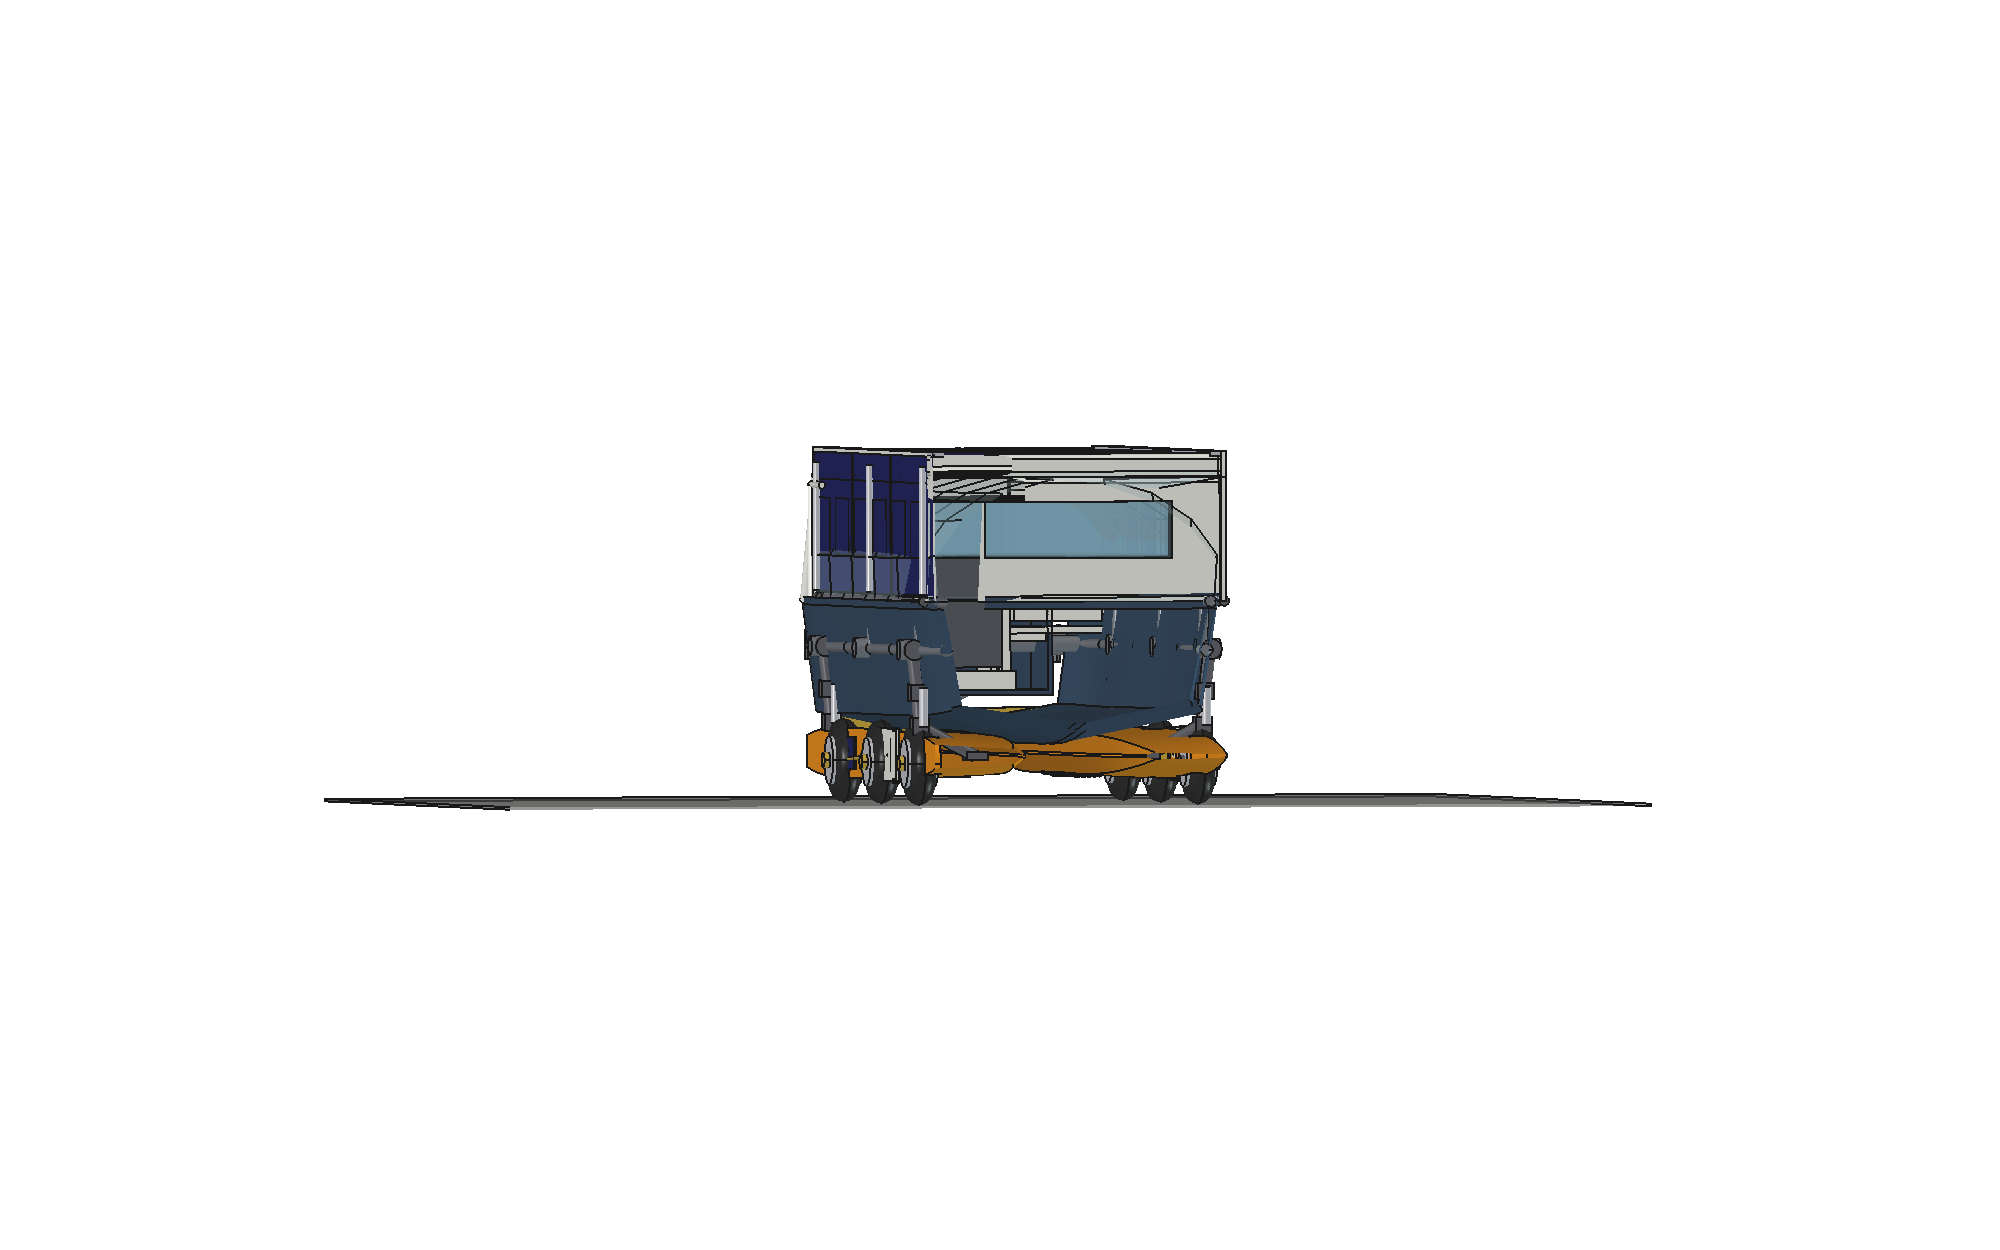
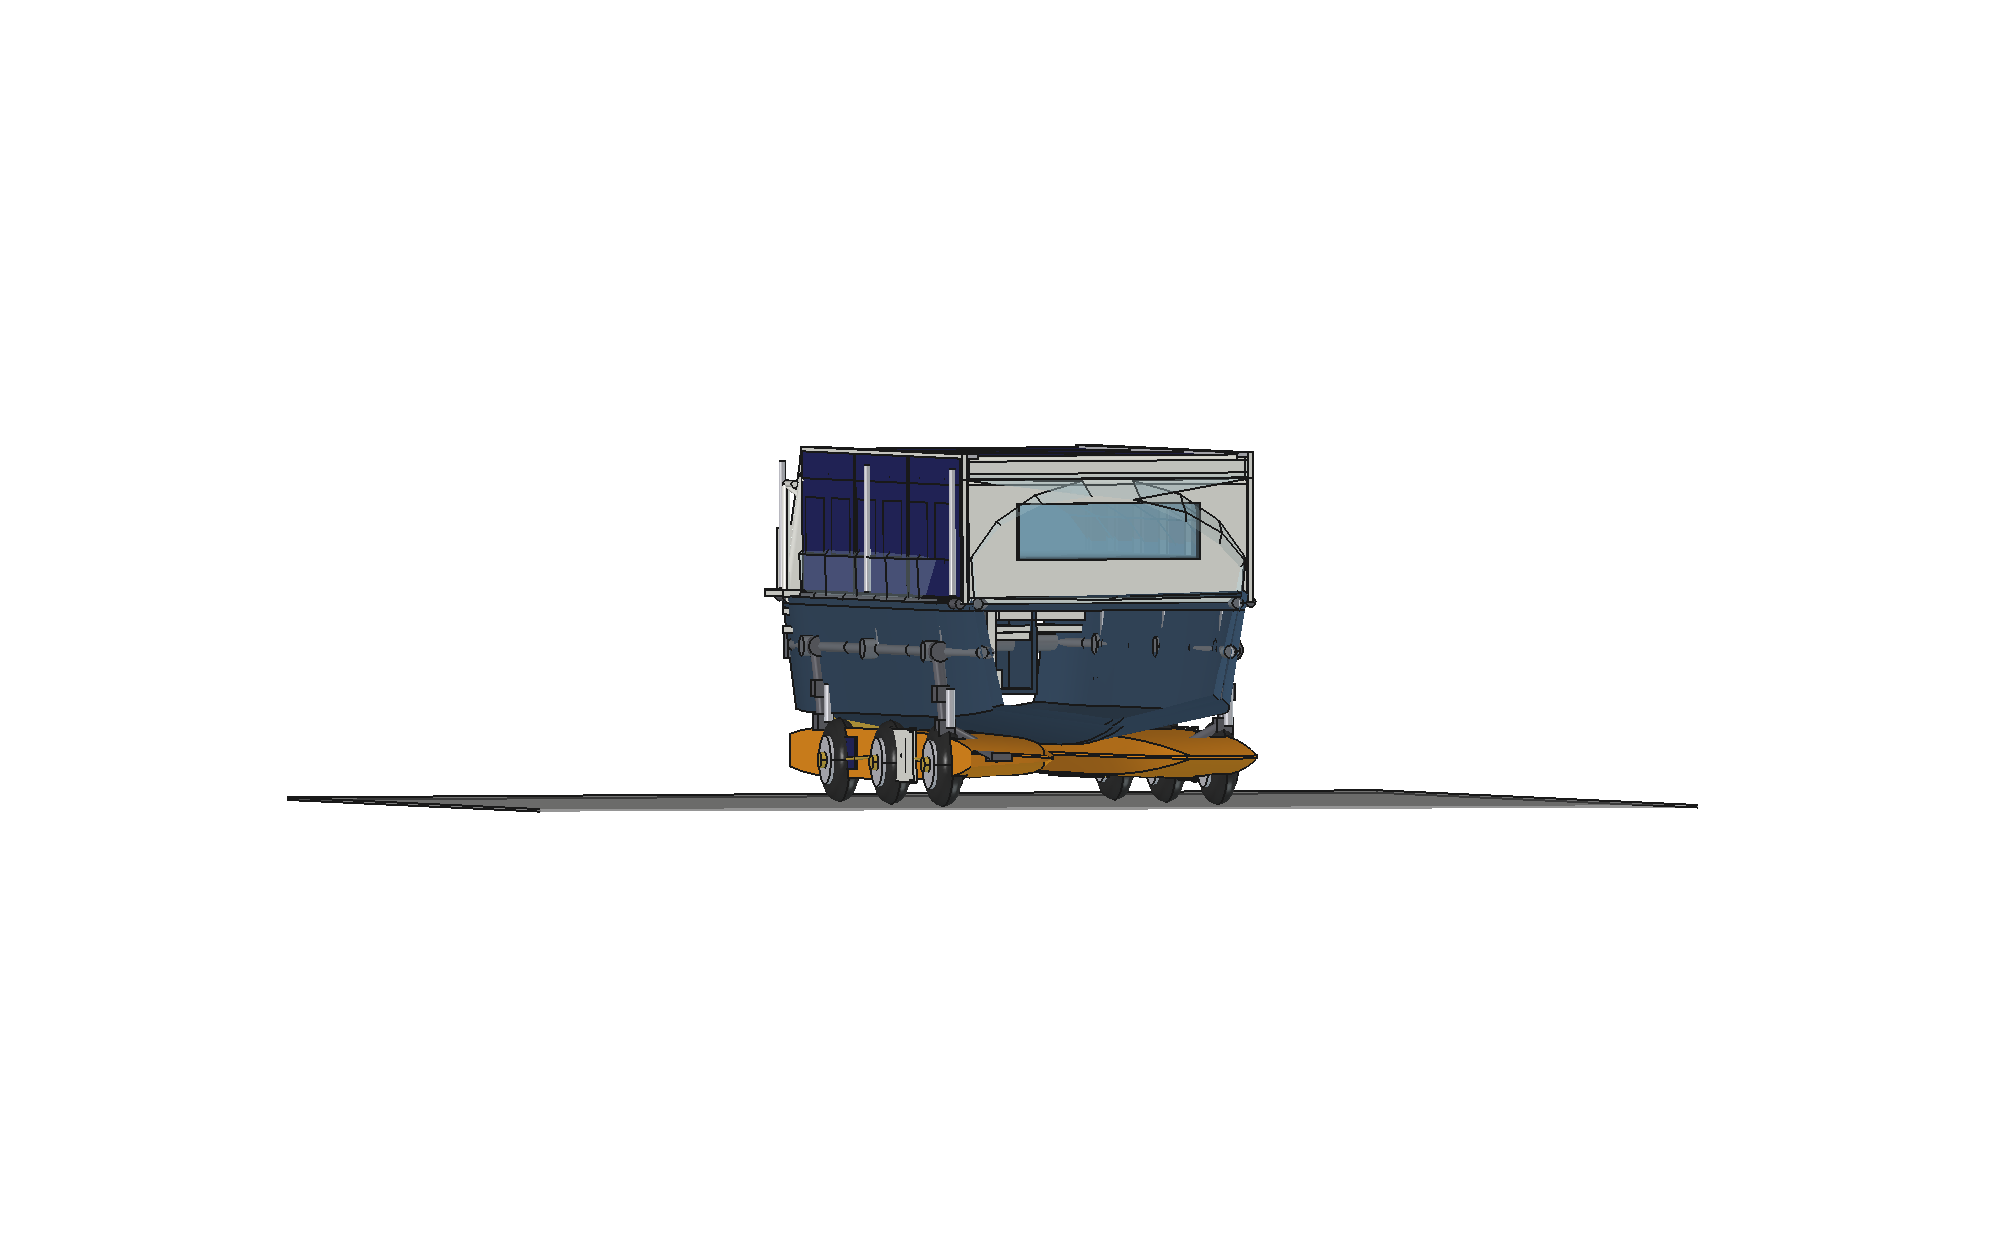
Balcony runs aft to the transom as a narrow passage
There was no physical connection between the aft door and the side
decks: the balconies started at the cabin wall, so the cockpit opened
onto nothing.

The balcony panel now extends aft to the transom, but the aft section
is a 540 mm PASSAGE that flares to the full 1200 mm deck at the cabin
wall — a walkway, not more floor, since extra width there would only
add weight, windage and folded height. The boarding gate moved aft to
x 200-800, beside the cockpit, so you step out of the door, up the
landing and half step, and straight onto the passage. Winch relocated
hard aft to keep the gate clear; solar panels and the edge rail follow
the wide section only.

Changed region(s): [[0.155, 0.3432, 0.837, 0.6552]]

diff --git a/freecad/build_boat.py b/freecad/build_boat.py
@@ -395,19 +395,31 @@ def build_balcony(fold_deg):
         s.Placement = place.multiply(s.Placement)
         return s
 
-    plate = posed(box(L, P.BALC_SPAN, P.BALC_T, (P.BALC_X0, 0, 0)))
-    # 3 BIFACIAL modules: active laminate on both faces of the plate
+    # plate outline: a narrow passage aft, flaring to the full deck at
+    # the cabin wall. Only a walkway is needed back there — widening it
+    # would just add weight and windage.
+    out = wire([(P.BALC_X0, 0, 0), (P.BALC_X0, P.PASSAGE_W, 0),
+                (P.PASSAGE_X - 340, P.PASSAGE_W + 40, 0),
+                (P.PASSAGE_X - 40, P.BALC_SPAN - 120, 0),
+                (P.PASSAGE_X, P.BALC_SPAN, 0),
+                (P.BALC_X1, P.BALC_SPAN, 0), (P.BALC_X1, 0, 0)])
+    plate = posed(Part.Face(out).extrude(Vector(0, 0, P.BALC_T)))
+    # 3 BIFACIAL modules, on the wide section only
     panels = []
-    gx = (L - 3 * P.PANEL_L) / 4
+    wide = P.BALC_X1 - P.PASSAGE_X
+    gx = (wide - 3 * P.PANEL_L) / 4
     for i in range(3):
-        px = P.BALC_X0 + gx + i * (P.PANEL_L + gx)
+        px = P.PASSAGE_X + gx + i * (P.PANEL_L + gx)
         py = (P.BALC_SPAN - P.PANEL_W) / 2
         panels.append(posed(box(P.PANEL_L, P.PANEL_W, P.PANEL_T,
                                 (px, py, P.BALC_T))))           # front face
         panels.append(posed(box(P.PANEL_L, P.PANEL_W, P.PANEL_T,
                                 (px, py, -P.PANEL_T))))         # rear face
-    # outboard edge rail
-    rail = posed(box(L, 40, 90, (P.BALC_X0, P.BALC_SPAN - 40, P.BALC_T)))
+    # outboard edge rail: follows the passage, then the wide deck
+    rail = posed(box(P.BALC_X1 - P.PASSAGE_X, 40, 90,
+                     (P.PASSAGE_X, P.BALC_SPAN - 40, P.BALC_T)))
+    rail = rail.fuse(posed(box(P.PASSAGE_X - 340 - P.BALC_X0, 40, 90,
+                               (P.BALC_X0, P.PASSAGE_W - 40, P.BALC_T))))
     # diagonal brackets under the deck, back to the hull side
     braces = []
     for bx in (P.BALC_X0 + 250, (P.BALC_X0 + P.BALC_X1) / 2,
@@ -680,16 +692,19 @@ def build_aft_entry(rail_up=False, door_open=False):
     # climb into two easy steps, and a grab post bolted to the balcony
     # frame gives a handhold right at the gate.
     for sgn in (-1, 1):
-        tri = Part.Face(wire([(620, sgn * 380, P.LANDING_Z),
-                              (x1, sgn * 380, P.LANDING_Z),
-                              (x1, sgn * 1180, P.LANDING_Z),
-                              (620, sgn * 700, P.LANDING_Z)]))
+        # wedge landing at bench height along the outboard edge of the
+        # well, then a half step up to deck level and straight out
+        # through the gate onto the balcony — no detour.
+        tri = Part.Face(wire([(P.GATE_X0, sgn * 380, P.LANDING_Z),
+                              (P.GATE_X1, sgn * 380, P.LANDING_Z),
+                              (P.GATE_X1, sgn * 1180, P.LANDING_Z),
+                              (P.GATE_X0, sgn * 1180, P.LANDING_Z)]))
         parts.append(tri.extrude(Vector(0, 0, 55)))
-        parts.append(box(200, 480, 55,
-                         (x1 - 220, sgn * 700 - (480 if sgn < 0 else 0),
+        parts.append(box(P.GATE_X1 - P.GATE_X0, 300, 55,
+                         (P.GATE_X0, sgn * 880 - (300 if sgn < 0 else 0),
                           (P.LANDING_Z + DECK_Z) / 2)))       # half step
-        parts.append(box(P.GATE_X1 - P.GATE_X0, 220, 50,
-                         (P.GATE_X0, sgn * 1090 - 110, DECK_Z)))
+        parts.append(box(P.GATE_X1 - P.GATE_X0, 260, 50,
+                         (P.GATE_X0, sgn * 1200 - 130, DECK_Z)))
         # grab post on the balcony frame + tie back into the cabin wall
         parts.append(rod((P.GRAB_POST_X, sgn * P.GRAB_POST_Y, DECK_Z),
                          (P.GRAB_POST_X, sgn * P.GRAB_POST_Y,

diff --git a/freecad/params.py b/freecad/params.py
@@ -119,7 +119,11 @@ MOTOR_BAY_L = 800
 MOTOR_BAY_W = 400
 
 # ---- solar balcony: bifacial shutters / walkable water deck ----
-BALC_X0, BALC_X1 = 900, 6200
+BALC_X0, BALC_X1 = 100, 6200   # runs aft to the transom so the
+                               # walkway meets the cockpit directly
+PASSAGE_W = 540                # aft section is a narrow PASSAGE, not deck:
+PASSAGE_X = 900                # it widens to the full balcony only from
+                               # the cabin wall forward
 BALC_SPAN = 1200
 BALC_T = 40
 BALC_HINGE_Y = 1200                # folded outer face 1256 <= 1275
@@ -256,12 +260,14 @@ PORCH_STRUT_Y = 620           # diagonal tubes to the wall — no deck posts
 STAIR_Y0, STAIR_Y1 = -1200, -740   # port strip, to the LEFT of the door
 STAIR_X0, STAIR_X1 = 460, 880
 STAIR_STEPS = 8
-GATE_X0, GATE_X1 = 950, 1450   # sheer-rail gap: step out to the balconies
+GATE_X0, GATE_X1 = 200, 800    # sheer-rail gap right beside the
+                               # cockpit: step straight out of the
+                               # door onto the balcony walkway
 # transition from the door out to the balcony walkways: a triangular
 # landing in each forward corner at bench height, and a grab post
 # bolted to the balcony frame at the gate
 LANDING_Z = 850
-GRAB_POST_X = 980
+GRAB_POST_X = 520
 GRAB_POST_Y = 1230
 GRAB_POST_H = 900
 # aft wall fit-out, seen from the cockpit: AC upper right, lockers below
@@ -277,7 +283,7 @@ LOCKER_DEPTH = 300
 # point and the boat hauls itself out even with no wheel grip.
 # Anchor: stern roller on the gantry leg, rode to the same drum family.
 WINCH_PULL_KG = 2000          # 4500 lb class, 12/24 V
-WINCH_POS = (330, -980, 1265)   # on the port deck strip, clear of the door
+WINCH_POS = (60, -880, 1265)    # hard aft, clear of the boarding gate
 ANCHOR_ROLLER = (-140, 0, 1150)
 
 # ---- stern pod ----

diff --git a/docs/aft_entry.md b/docs/aft_entry.md
@@ -99,6 +99,11 @@ so the balconies are **not** reached by walking along the sides. They
 are reached from the cockpit: both balconies start at x 900, level
 with the deck, right where the crew stands.
 
+The balcony panel itself now runs **aft to the transom**, but only as a
+**540 mm passage** — it flares to the full 1 200 mm deck at the cabin
+wall. A passage is all that is needed back there; widening it would
+only add weight, windage and folded height for no use.
+
 On **both sides**, the route out of the door is made walkable by three
 pieces:
 
